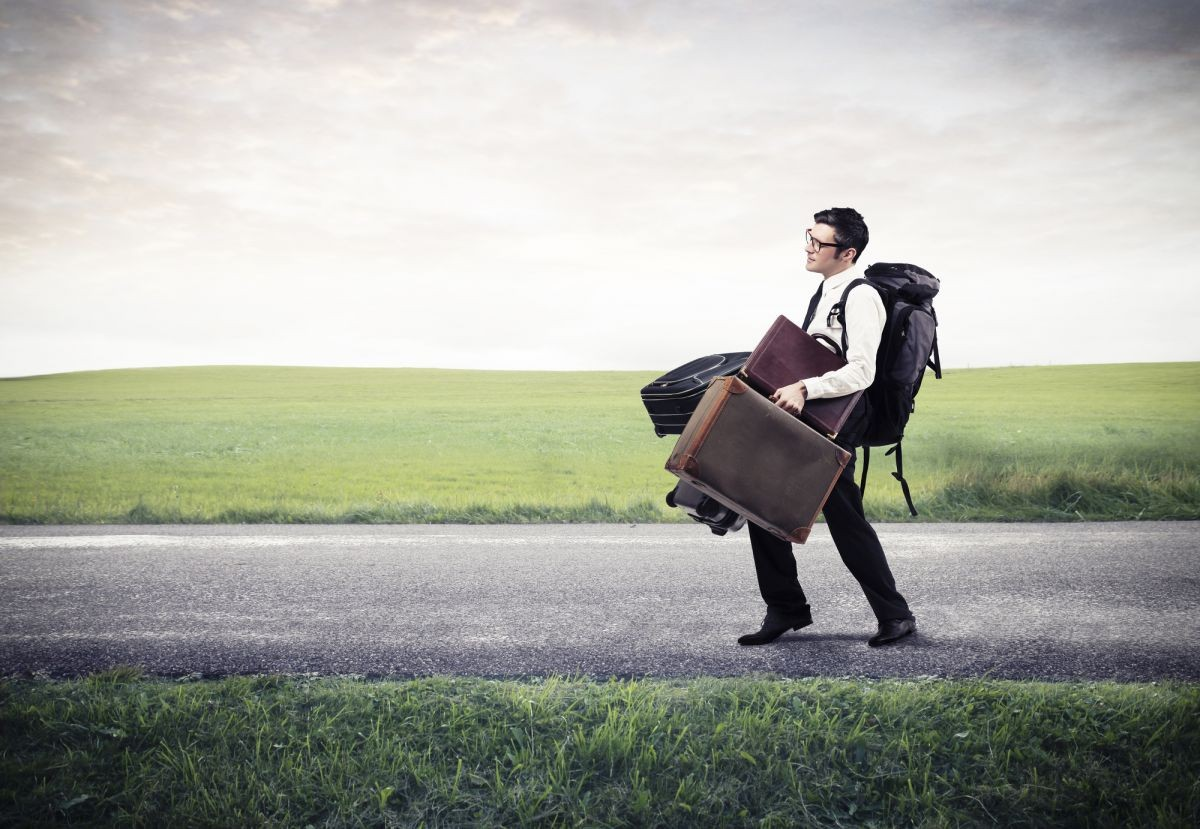
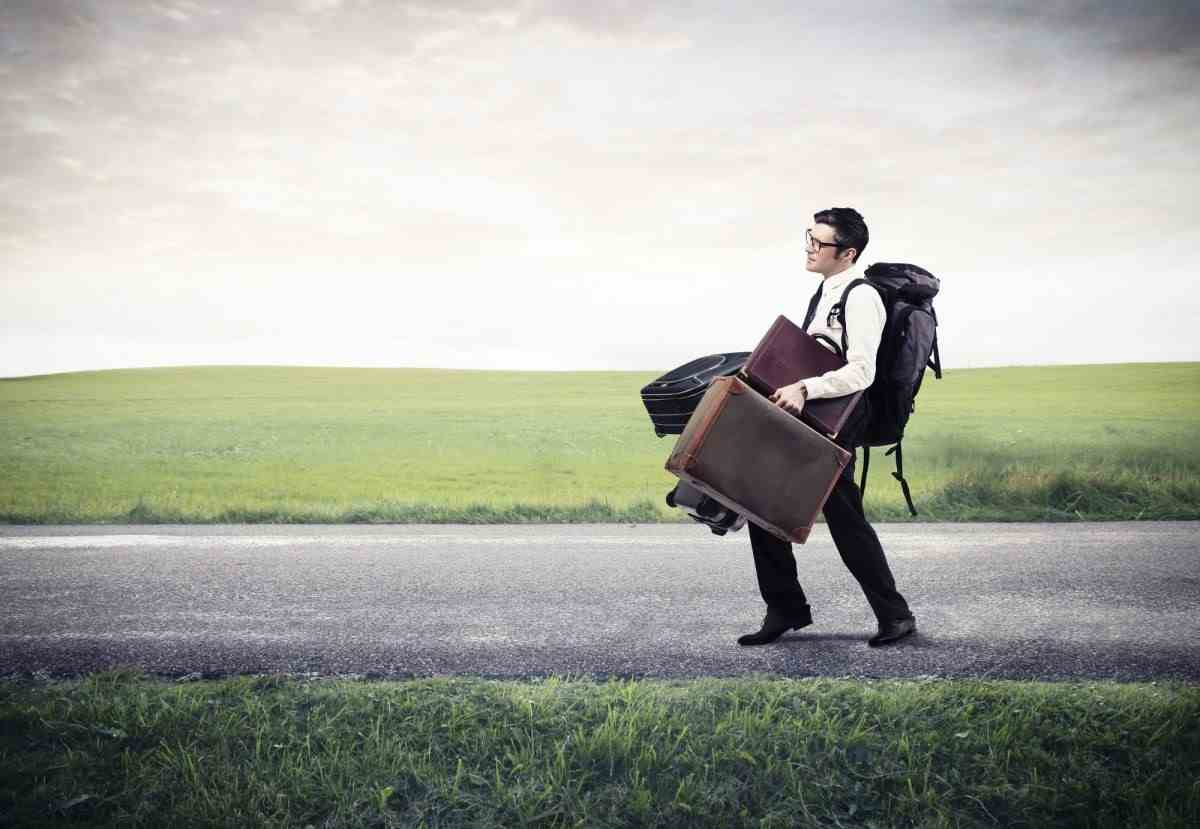
Change photo size to optimize loading

diff --git a/article.html b/article.html
@@ -17,7 +17,6 @@
       ga('create', 'UA-109693819-1', 'auto');
       ga('send', 'pageview');
       
-      
     </script>
     <body></body><!--[if !IE]> -->
     <link rel="stylesheet" href="/ext/css/index.css?d=72" lazyload="1">
@@ -30,7 +29,7 @@
       <li><a href="/contact">Contact</a></li>
     </ul>
     <div id="body">
-      <div class="post blue"><img src="/ext/img/Design_Your_Unique_Gift.png" style="width:100%;">
+      <div class="post blue"><img src="/ext/img/Design_Your_Unique_Gift.jpg" style="width:100%;">
         <h2>Malaysia souvenir: Meaningful gift for friends in 4 easy steps</h2>
       </div>
       <div class="post">
@@ -60,7 +59,7 @@
             </li>
           </ol>
           <p>We are using 350gsm high quality paper printed by industrial grade printer. The paper is thick and the colour of postcard will not smirk.</p>
-          <p>Over 200 EZ Post users have tried and sent their own meaningful gift in the form of postcard. Try it now and surprise your friends with a unique, meaningful and authentic Malaysia souvenir today. </p><img src="/ext/img/ezpost_promo.png" style="width:100%;">
+          <p>Over 200 EZ Post users have tried and sent their own meaningful gift in the form of postcard. Try it now and surprise your friends with a unique, meaningful and authentic Malaysia souvenir today. </p><img src="/ext/img/ezpost_promo.jpg" style="width:100%;">
           <p style="font-size:12px;">*EZ Post app is only available on Android today, if you are on IOS, please leave <a href="https://www.the-ez-post.com/" target="_blank">your contact</a> 
             with us so that we can inform you when IOS version is ready to use 
           </p>
